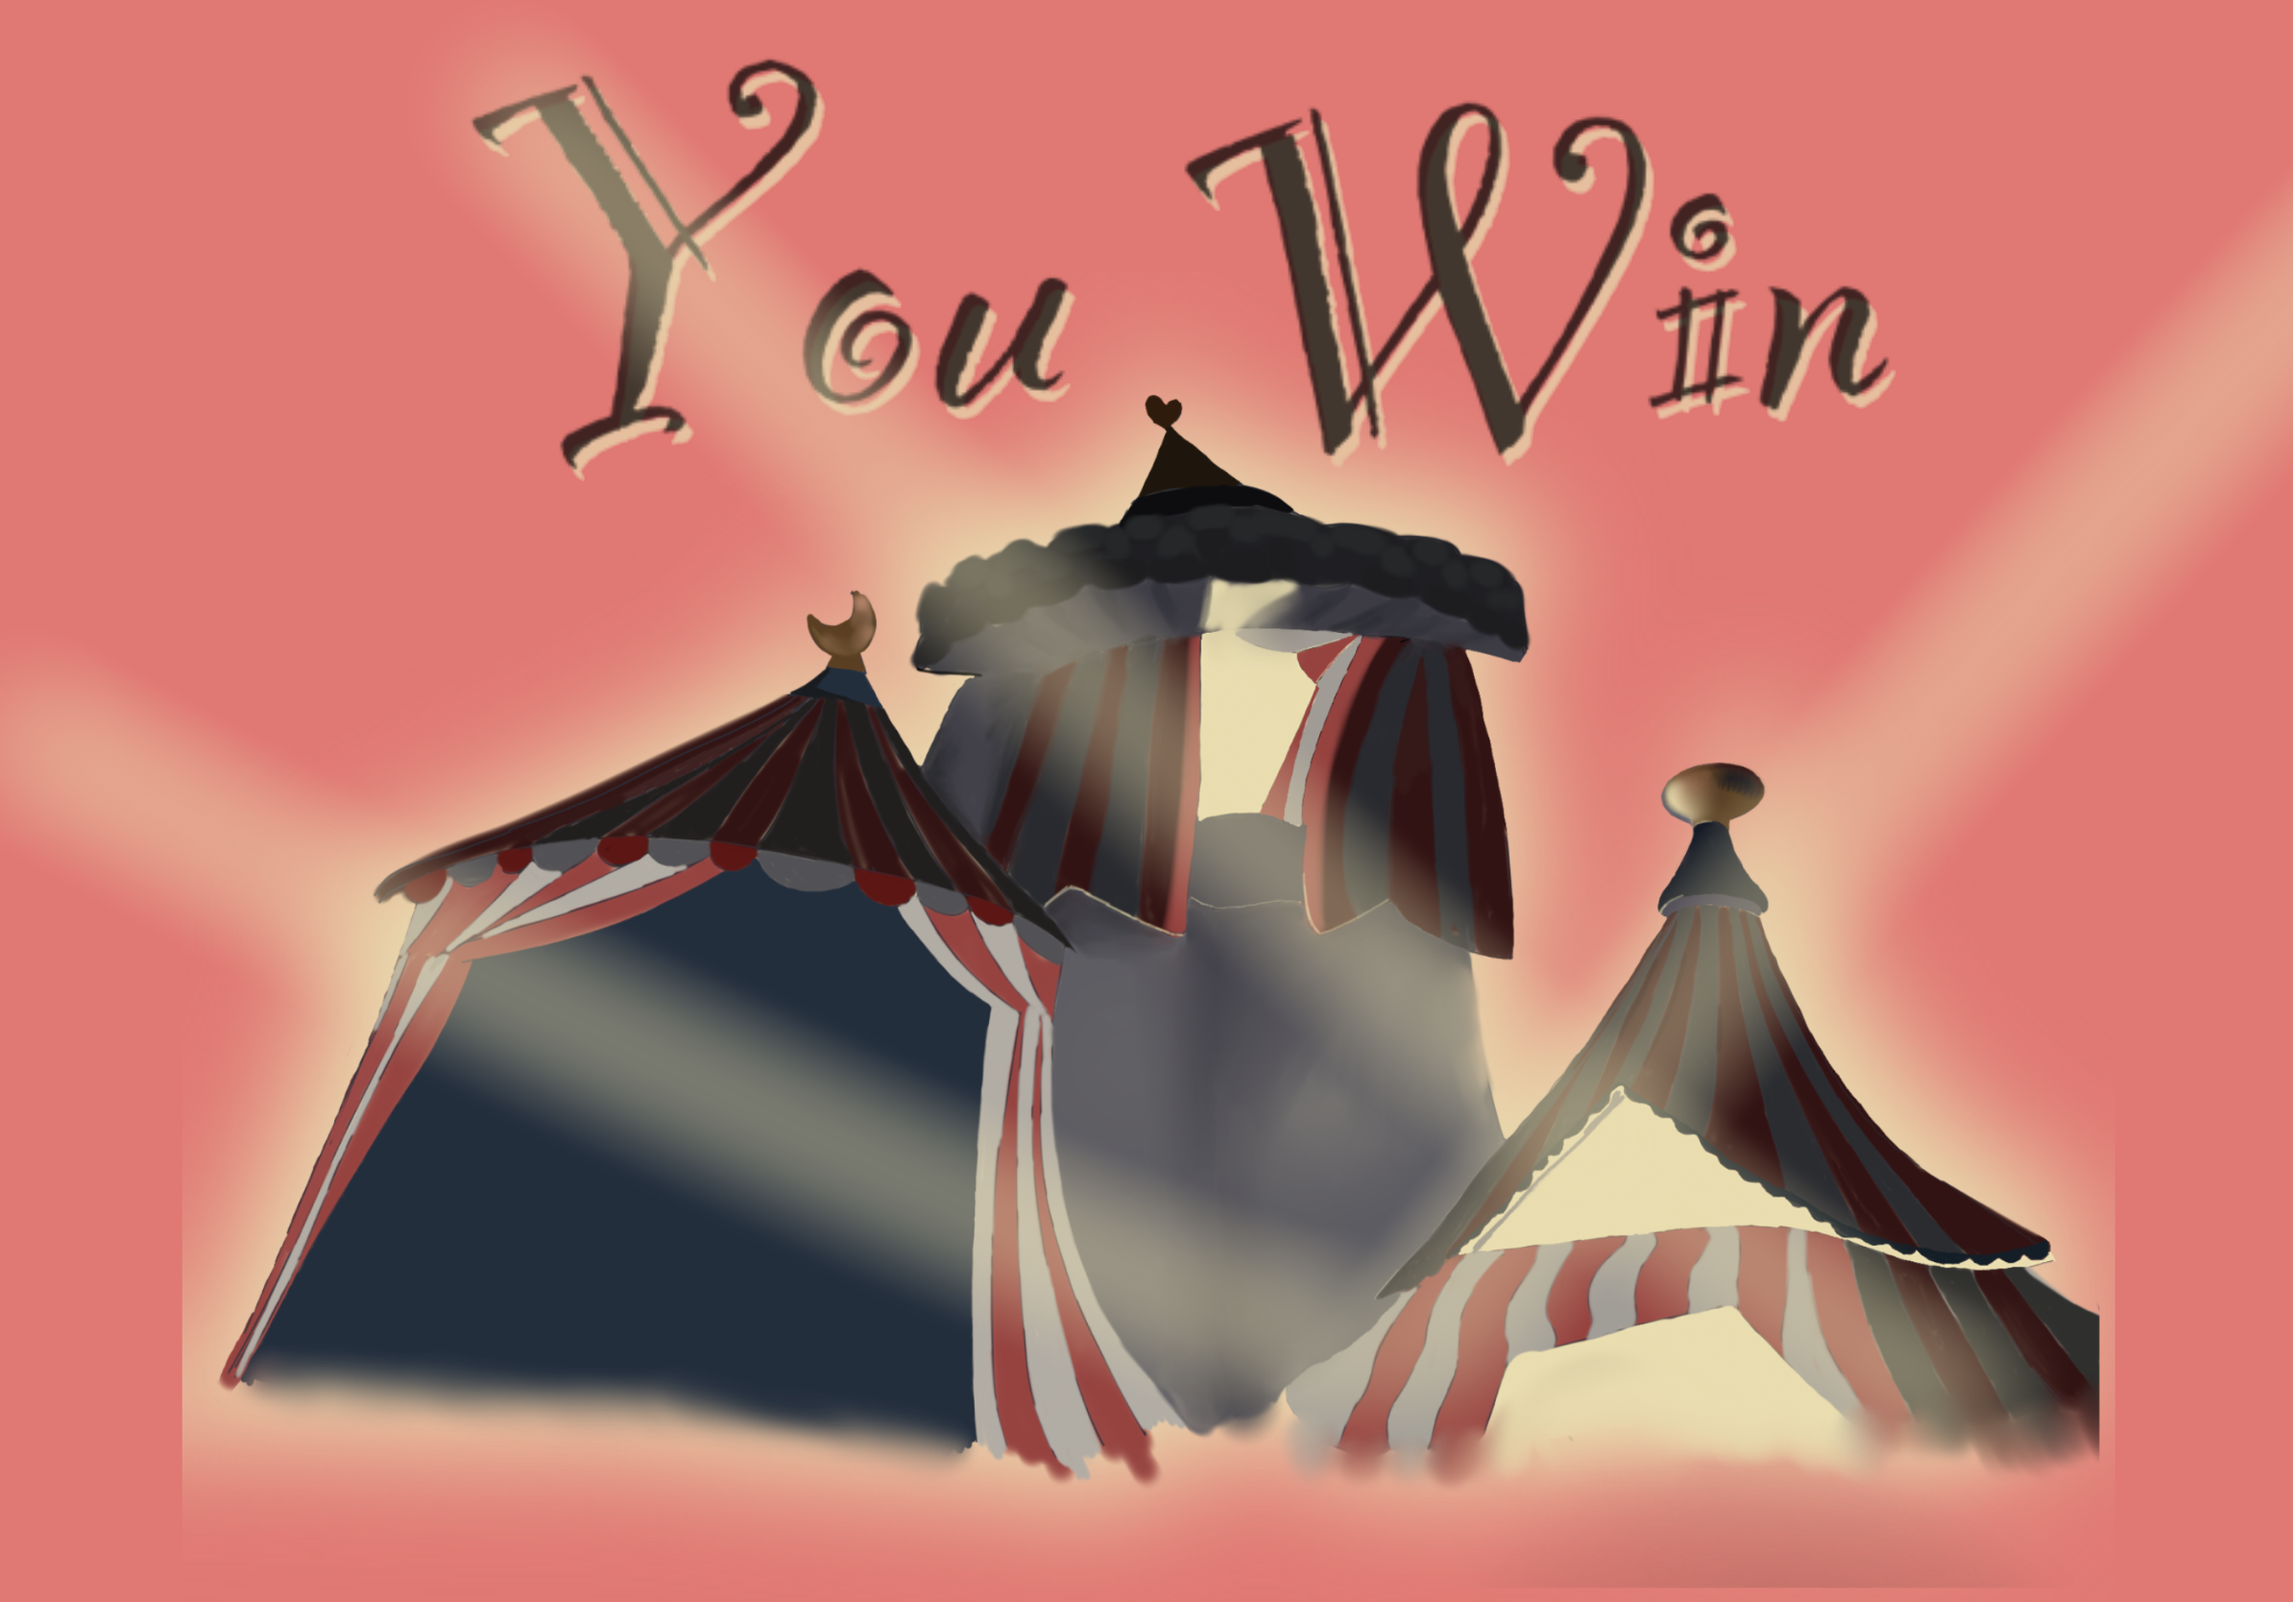
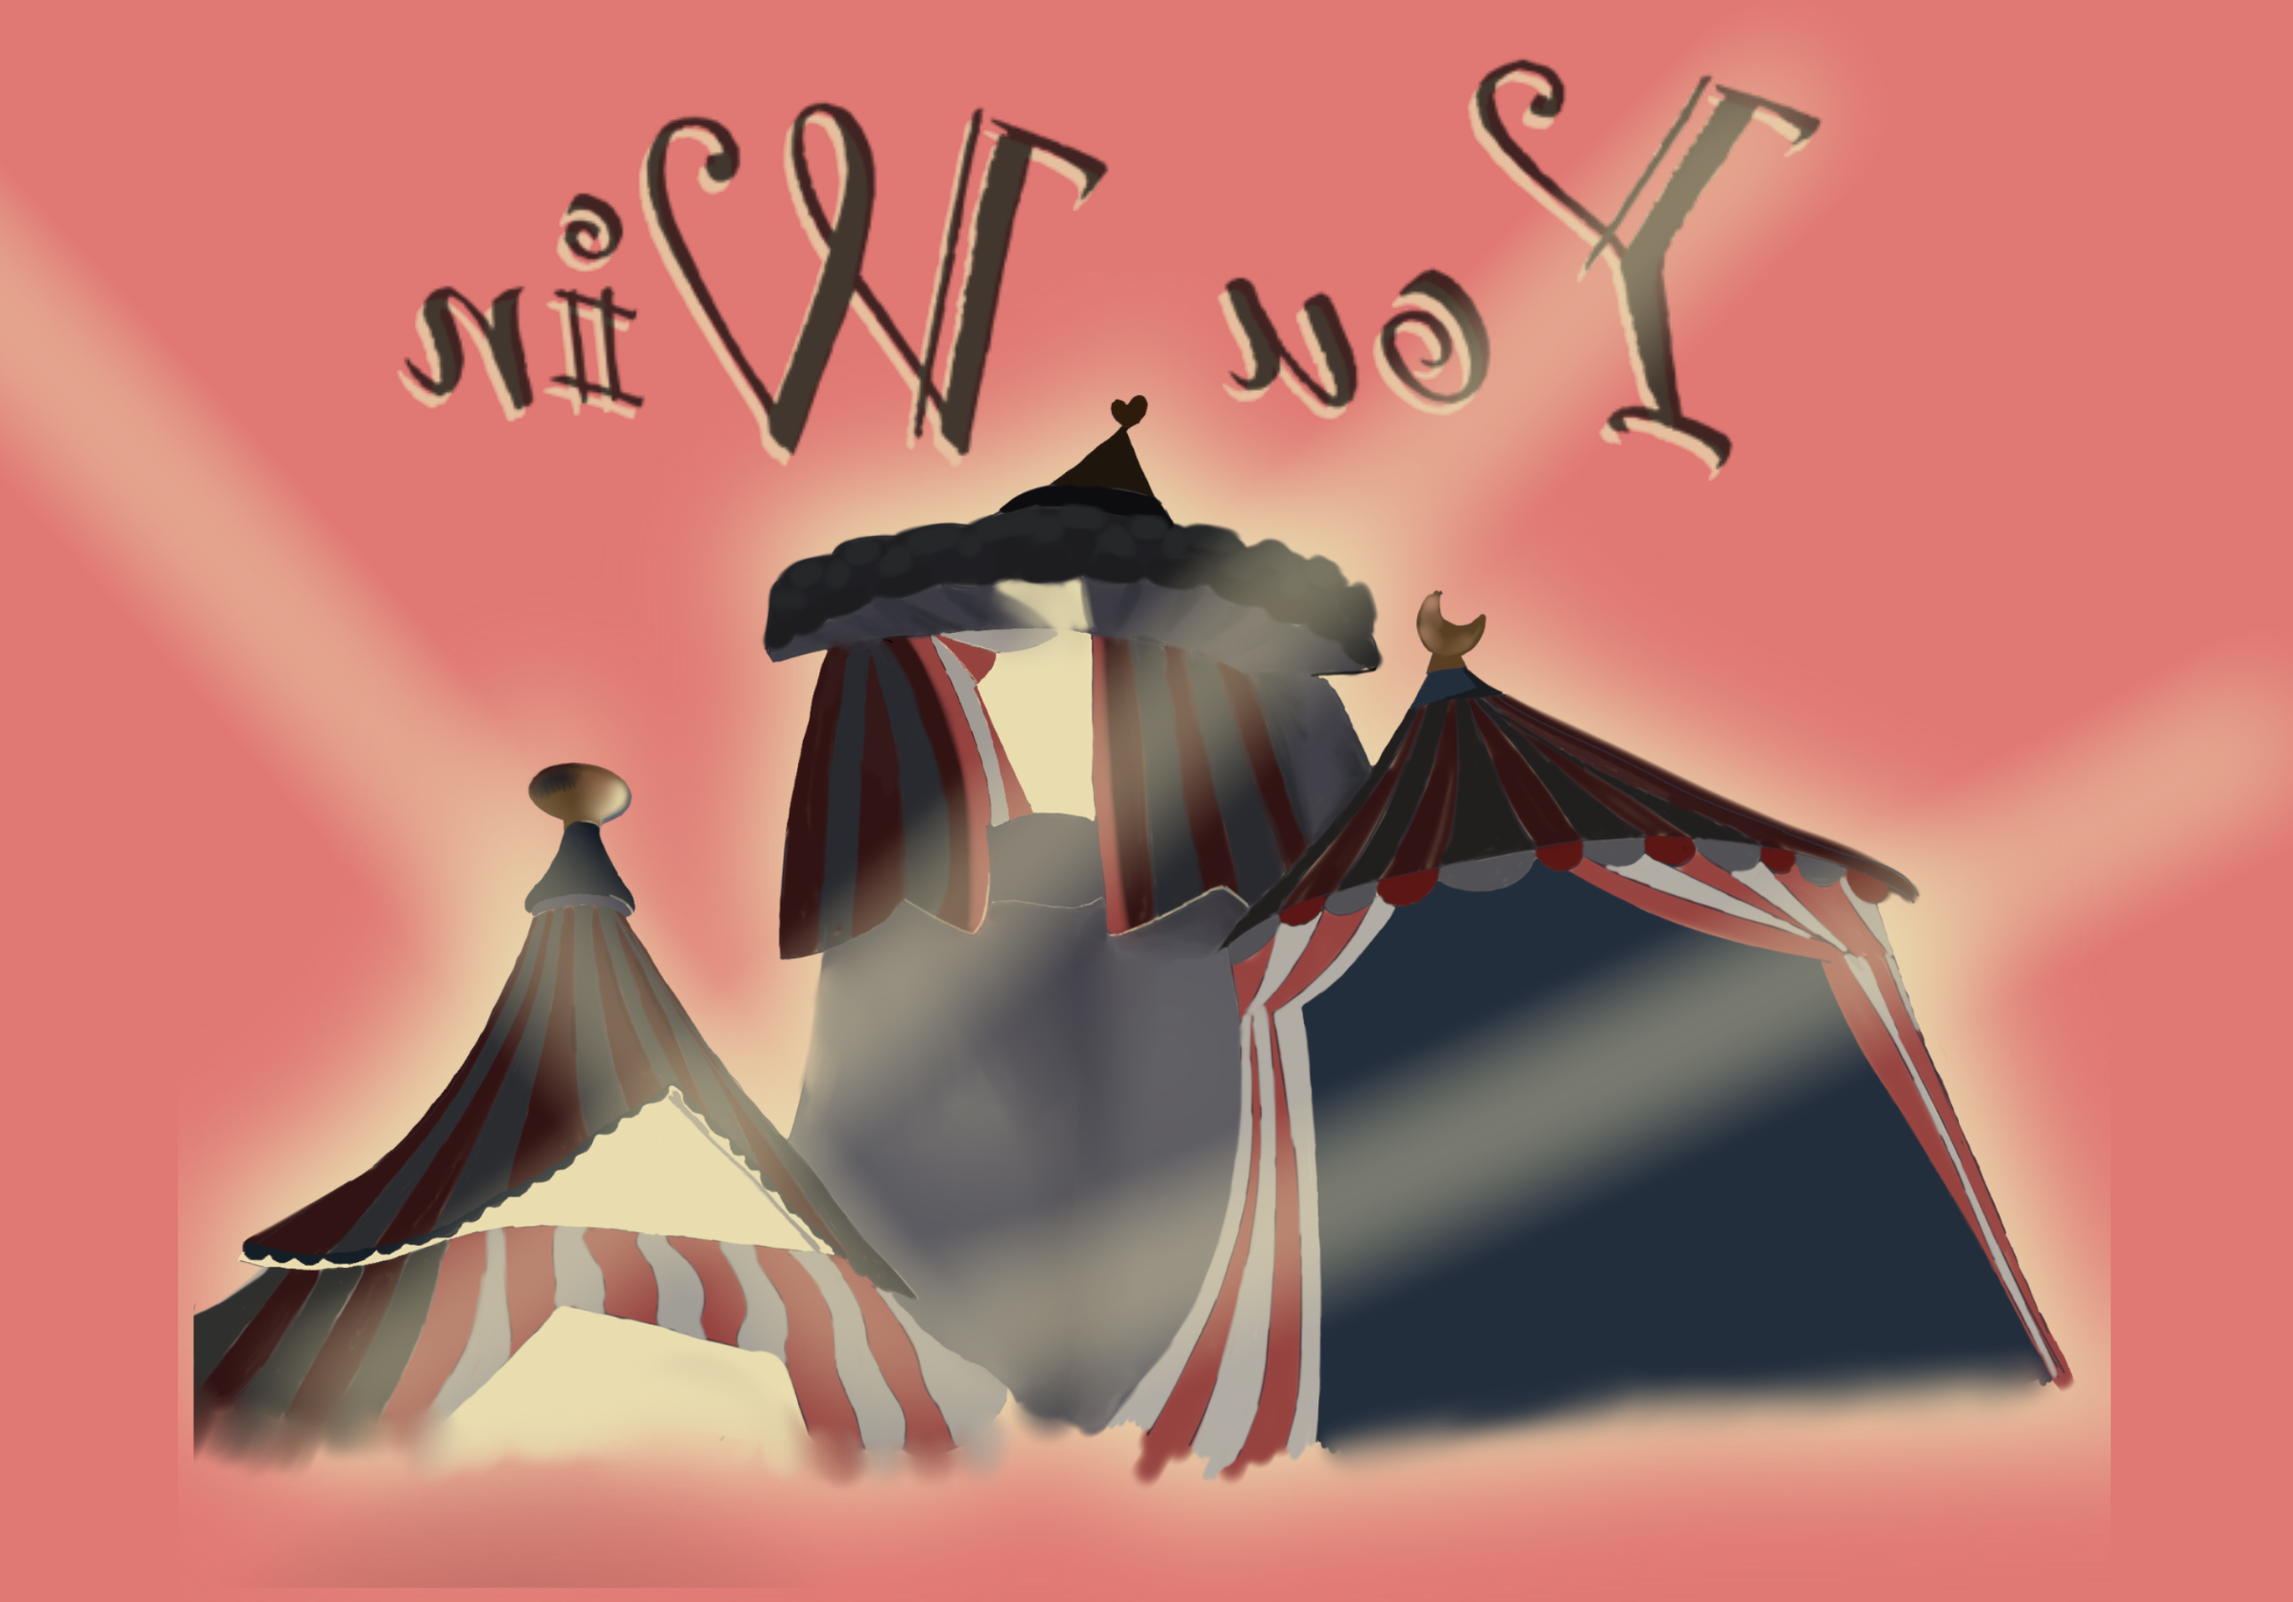
final scene done

diff --git a/BlinderEngine/src/FinalScene.cpp b/BlinderEngine/src/FinalScene.cpp
@@ -1,8 +1,9 @@
 #include "FinalScene.h"
 
 FinalScene::FinalScene(bool win,std::vector<std::shared_ptr<DaeObject>> _players) {
-	backWallwin = std::make_shared<ObjObject>("./resources/objects/wall/wall3.obj", glm::vec3(1.0f));
-	backWalllose = std::make_shared<ObjObject>("./resources/objects/wall/wall3.obj", glm::vec3(1.0f));
+	backWallwin = std::make_shared<ObjObject>("./resources/objects/win_page/winpage.obj", glm::vec3(6.0f));
+	backWalllose = std::make_shared<ObjObject>("./resources/objects/lose_page/losepage.obj", glm::vec3(6.0f));
+	ground = std::make_shared<ObjObject>("./resources/objects/ground_final/losepage.obj", glm::vec3(1.0f,100.0f,100.0f));
 	players=_players;
 	status = win;
 	
@@ -13,7 +14,7 @@ FinalScene::FinalScene(bool win,std::vector<std::shared_ptr<DaeObject>> _players
 		players[3]->setScale(glm::vec3(0.3f));
 		for (int i = 0; i < players.size(); i++) {
 			glm::mat4 model = glm::translate(glm::mat4(1.0f), glm::vec3(-5.0f + i * 10.0f / 3, 0.0f,0.0f));
-			model=model* glm::rotate(glm::radians(180.0f), glm::vec3(0.0f, 1.0f, 0.0f));
+			model=model* glm::rotate(glm::radians(180.0f), glm::vec3(0.0f, 1.0f, 0.0f)); 
 			players[i]->setModel(model);
 			playertime.push_back(0.0f);
 			playerAnim.push_back(false);
@@ -21,13 +22,19 @@ FinalScene::FinalScene(bool win,std::vector<std::shared_ptr<DaeObject>> _players
 	}
 	else {
 		players[0]->setScale(glm::vec3(0.6f));
-		glm::mat4 model = glm::translate(glm::mat4(1.0f), glm::vec3(0.0f, 0.0f, 0.0f));
+		glm::mat4 model = glm::translate(glm::mat4(1.0f), glm::vec3(0.0f, 0.0f, -2.0f));
 		model = model * glm::rotate(glm::radians(180.0f), glm::vec3(0.0f, 1.0f, 0.0f));
 		players[0]->setModel(model);
 		playerAnim.push_back(false);
 	}
-	backWallwin->setModel(glm::translate(glm::mat4(1.0f), glm::vec3(0.0f, -4.5f, -5.0f)));
-	backWalllose->setModel(glm::translate(glm::mat4(1.0f), glm::vec3(0.0f, -4.5f, -5.0f)));
+	glm::mat4 model = glm::translate(glm::mat4(1.0f), glm::vec3(0.0f, 4.0f, -5.0f));
+	model *= glm::rotate(glm::radians(-90.0f), glm::vec3(0.0f, 1.0f, 0.0f));
+	model *= glm::rotate(glm::radians(180.0f), glm::vec3(1.0f, 0.0f, 0.0f));
+	backWallwin->setModel(model);
+	backWalllose->setModel(model);
+	model = glm::rotate(glm::radians(-90.0f), glm::vec3(0.0f, 1.0f, 0.0f));
+	model *= glm::rotate(glm::radians(-90.0f), glm::vec3(0.0f, 0.0f, 1.0f));
+	ground->setModel(model);
 }
 
 void FinalScene::update(float dt) {
@@ -71,4 +78,6 @@ void FinalScene::draw(StaticShader Sshader, DynamicShader Dshader, const glm::ma
 		players[0]->draw(projection, view, Dshader);
 		backWalllose->draw(projection, view, Sshader);
 	}
+
+	ground->draw(projection, view, Sshader);
 }

diff --git a/BlinderEngine/src/Scene.cpp b/BlinderEngine/src/Scene.cpp
@@ -38,7 +38,8 @@ void Scene::init(int PlayID)
 	width = WINDOW_WIDTH;
 	height = WINDOW_HEIGHT;
 	sceneStatus = SceneStatus::running;
-	/*endPage = std::make_shared<FinalScene>(false, playersObjects);
+	
+	/*endPage = std::make_shared<FinalScene>(true, playersObjects);
 	lights->EmptyAllLights(true);
 	camera->setFinalCam();*/
 }
@@ -173,6 +174,7 @@ void Scene::displayWorld(std::vector<int> os, int cd_remain)
 		//map->draw(camera->GetViewProjectMtx(), shaderProgram, os, sobs_pos, mobs_pos, lobs_pos);
 		fog->updateFog(staticShader->ID, glm::vec3(0.0f), width, height);
 		fog->updateFog(dynamicShader->ID, glm::vec3(0.0f), width, height);
+		//map->draw(camera->GetViewProjectMtx(), shaderProgram, os, sobs_pos, mobs_pos, lobs_pos);
 		//skybox->draw(camera->GetProjectMtx(), camera->GetViewMtx(), *skyboxShader);
 		//map->draw(camera->GetProjectMtx(), camera->GetViewMtx(), *staticShader);
 		//ui->draw(camera->GetViewProjectMtx(), *uiShader, playerID, cd_remain);

diff --git a/BlinderEngine/src/Mult_Lights.cpp b/BlinderEngine/src/Mult_Lights.cpp
@@ -107,6 +107,13 @@ void Mult_Lights::EmptyAllLights(bool win) {
     particles_light.clear();
     Light* endLight=new Light(false, true, glm::vec3(1.0f, 1.0f, 1.0f), glm::vec3(0.0f, -1.0f, 0.0f), glm::vec3(0.0f, 20.0f, 0.0f), 1.0f, 2.7f, 0.1f);
     endLight->SetParam(1.0f, 0.01f, 0.004f);
+    if (win) {
+        lights_for_A.push_back(endLight);
+        lights_for_BCD.push_back(endLight);
+        return;
+    }
+    endLight = new Light(false, true, glm::vec3(0.6f, 0.6f, 0.6f), glm::vec3(0.0f, -1.0f, 0.0f), glm::vec3(0.0f, 20.0f, 0.0f), 1.0f, 0.3f, 0.1f);
+    endLight->SetParam(1.0f, 0.01f, 0.004f);
     lights_for_A.push_back(endLight);
     lights_for_BCD.push_back(endLight);
 }

diff --git a/BlinderEngine/src/Audio.cpp b/BlinderEngine/src/Audio.cpp
@@ -66,12 +66,12 @@ void Audio::playBgm() {
 
 void Audio::playEnd(GameState gs) {
 	Audio::gSoloud.stopAll();
-	// Audio::init();
+	//Audio::init();
 	if (gs == GameState::WIN) {
-		//Audio::loadWin();
+		Audio::loadWin();
 	}
 	else if (gs == GameState::LOSE) {
-		//Audio::loadLose();
+		Audio::loadLose();
 	}
 	int h = Audio::gSoloud.play(Audio::gwave);
 	bool l = Audio::gSoloud.getLooping(h);

diff --git a/BlinderEngine/include/FinalScene.h b/BlinderEngine/include/FinalScene.h
@@ -13,6 +13,7 @@ public:
     bool status;
     std::shared_ptr<ObjObject> backWallwin;
     std::shared_ptr<ObjObject> backWalllose;
+    std::shared_ptr<ObjObject> ground;
     std::vector<std::shared_ptr<DaeObject>> players;
     std::vector<float> playertime;
     std::vector<bool> playerAnim;
